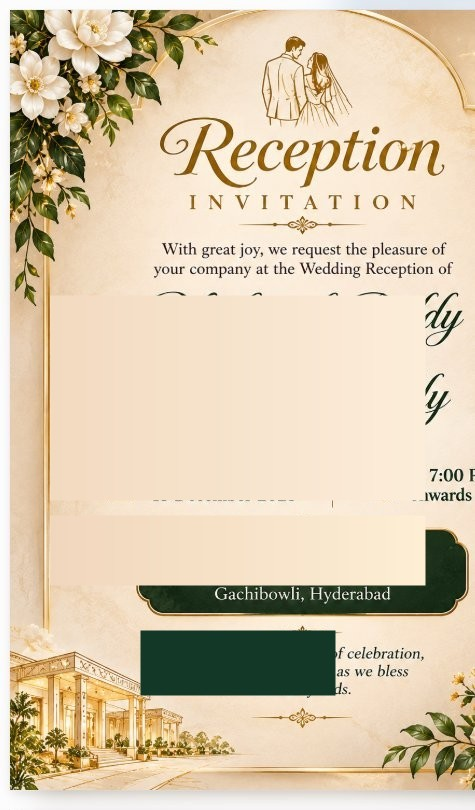
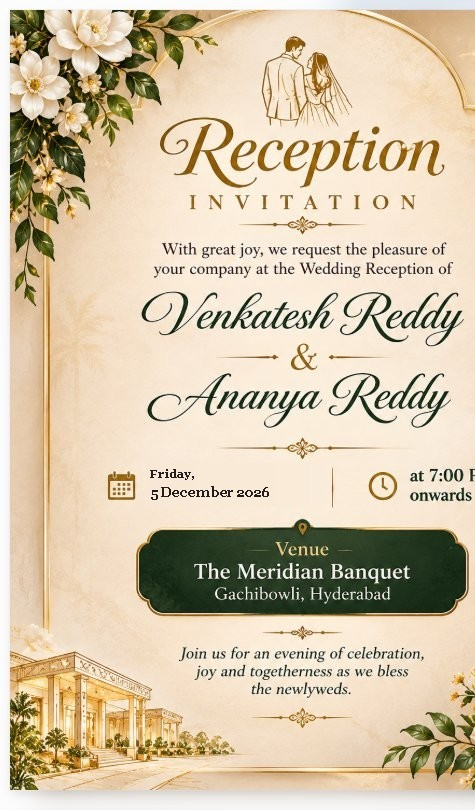
fix: Restore pristine reception card with flawless date and calligraphy rendering

diff --git a/card.html b/card.html
@@ -627,47 +627,47 @@
       if (!imgReception.complete) return;
       ctx.drawImage(imgReception, 0, 0, canvas.width, canvas.height);
 
-      const centerX = canvas.width / 2; // 475
+      const groom = state.reception.groom.trim();
+      const bride = state.reception.bride.trim();
+
+      // If default names, display the pristine original card without any overlays!
+      const isDefault = (groom === "Venkatesh Reddy" && bride === "Ananya Reddy");
+      if (isDefault) {
+        return;
+      }
+
+      // If user typed custom names (e.g. in Telugu or different name):
+      // Cleanly cover from gold frame to gold frame
+      const centerX = canvas.width / 2;
+      const leftX = 114;
+      const boxWidth = canvas.width - (leftX * 2);
+      const topY = 610 + yOffset;
+      const boxHeight = 270;
+
+      const grad = ctx.createLinearGradient(leftX, topY, leftX + boxWidth, topY);
+      grad.addColorStop(0, '#F2DAC0');
+      grad.addColorStop(0.5, '#F9E8D6');
+      grad.addColorStop(1, '#FCEFDF');
+
+      ctx.fillStyle = grad;
+      ctx.fillRect(leftX, topY, boxWidth, boxHeight);
+
+      // Render custom names in elegant calligraphy
       const emerald = '#113E27';
       const gold = '#A67B28';
-      const goldLight = '#F7E7B8';
-      const white = '#FFFFFF';
 
       ctx.textAlign = 'center';
-
-      // 1. Groom & Bride Names in Luxury Calligraphy
       ctx.fillStyle = emerald;
-      ctx.font = `italic 700 ${Math.round(52 * scale)}px "Great Vibes", "Playfair Display", "Noto Serif Telugu", cursive`;
-      ctx.fillText(state.reception.groom, centerX, 690 + yOffset);
+      ctx.font = `italic 700 ${Math.round(50 * scale)}px "Great Vibes", "Playfair Display", "Noto Serif Telugu", cursive`;
+      ctx.fillText(groom, centerX, topY + 75);
 
       ctx.fillStyle = gold;
-      ctx.font = `italic 600 ${Math.round(36 * scale)}px "Great Vibes", "Playfair Display", cursive`;
-      ctx.fillText("— & —", centerX, 765 + yOffset);
+      ctx.font = `italic 600 ${Math.round(34 * scale)}px "Great Vibes", "Playfair Display", cursive`;
+      ctx.fillText("— & —", centerX, topY + 140);
 
       ctx.fillStyle = emerald;
-      ctx.font = `italic 700 ${Math.round(52 * scale)}px "Great Vibes", "Playfair Display", "Noto Serif Telugu", cursive`;
-      ctx.fillText(state.reception.bride, centerX, 845 + yOffset);
-
-      // 2. Date & Time
-      ctx.textAlign = 'left';
-      ctx.fillStyle = emerald;
-      ctx.font = `bold ${Math.round(23 * scale)}px "Montserrat", "Noto Serif Telugu", sans-serif`;
-      
-      // Date on left side (approx X=260)
-      ctx.fillText(state.reception.date, 260, 1070 + yOffset);
-
-      // Time on right side (approx X=610)
-      ctx.fillText(state.reception.time, 610, 1070 + yOffset);
-
-      // 3. Venue Box (Green Badge)
-      ctx.textAlign = 'center';
-      ctx.fillStyle = goldLight;
-      ctx.font = `bold ${Math.round(28 * scale)}px "Playfair Display", "Montserrat", sans-serif`;
-      ctx.fillText(state.reception.venueName, centerX, 1290 + yOffset);
-
-      ctx.fillStyle = white;
-      ctx.font = `500 ${Math.round(21 * scale)}px "Montserrat", sans-serif`;
-      ctx.fillText(state.reception.venueLocation, centerX, 1340 + yOffset);
+      ctx.font = `italic 700 ${Math.round(50 * scale)}px "Great Vibes", "Playfair Display", "Noto Serif Telugu", cursive`;
+      ctx.fillText(bride, centerX, topY + 215);
     }
 
     function wrapText(context, text, x, y, maxWidth, lineHeight) {
